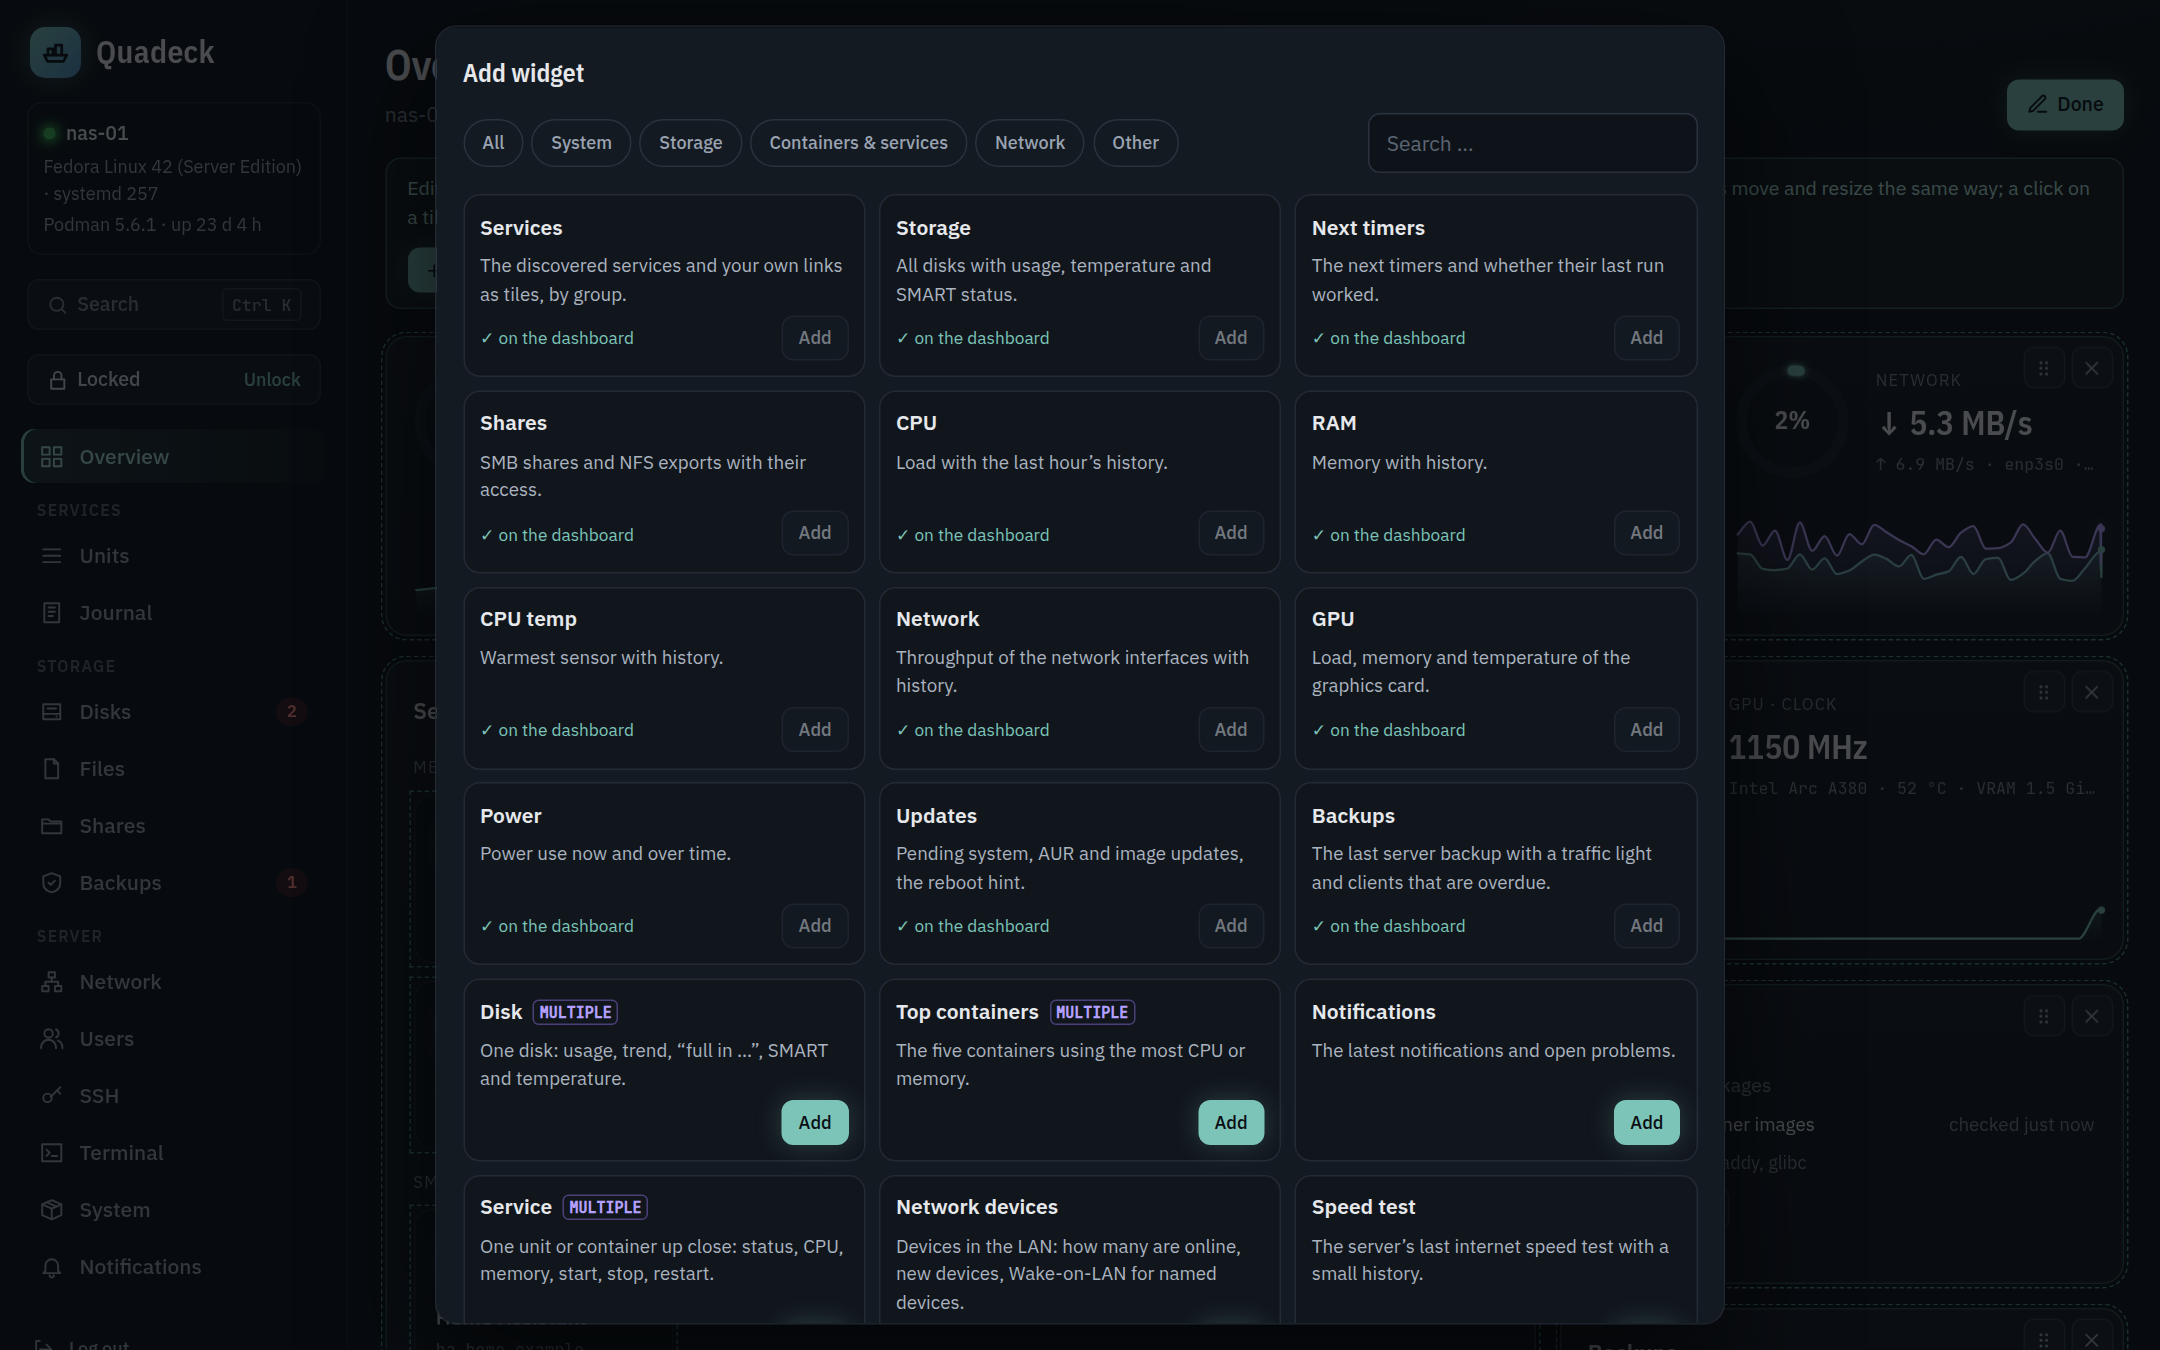
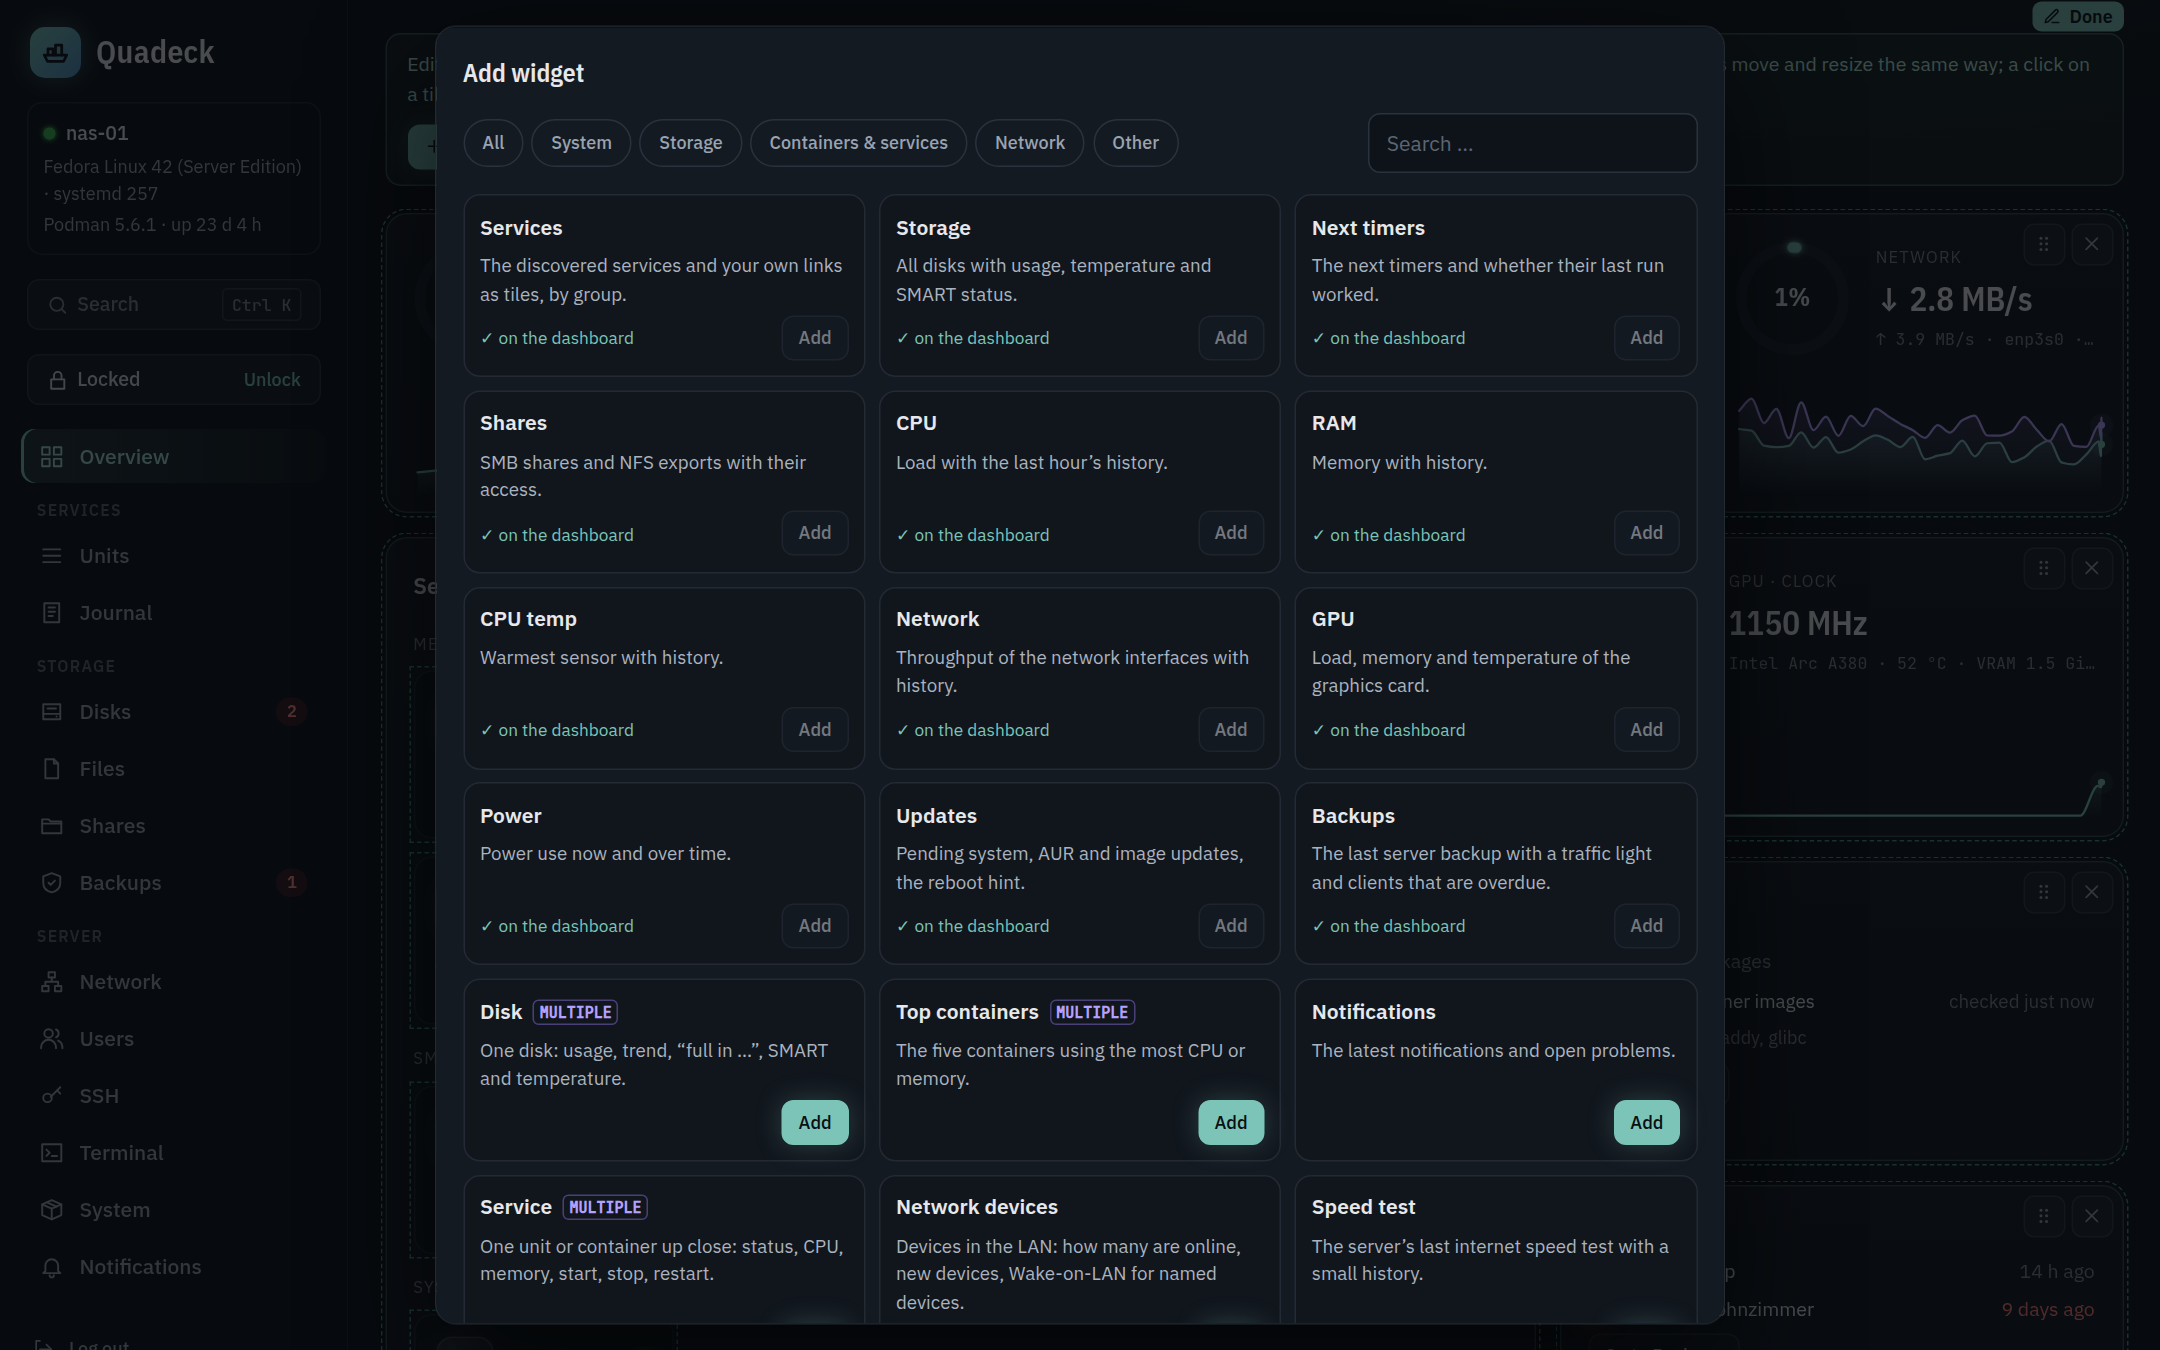
Overview: no visible title, the widgets start at the top; Edit in the corner and in the command palette
Claude-Session: https://claude.ai/code/session_01Vrgb7cjpgCXq9Tjg2bnuPN

diff --git a/src/routes/_app/index.tsx b/src/routes/_app/index.tsx
@@ -7,7 +7,6 @@ import { EditableGrid, recentlyDragged, type DefaultItem, type GridSpec } from '
 import { MetricCard, MetricDialog, type MetricCardId } from '~/components/MetricCards'
 import { Glyph } from '~/components/Glyph'
 import { ConfirmDialog } from '~/components/Modal'
-import { PageHeader } from '~/components/PageHeader'
 import { ServiceDialog } from '~/components/ServiceDialog'
 import { ServiceTile } from '~/components/ServiceTile'
 import { Dot, Pill } from '~/components/Status'
@@ -27,6 +26,8 @@ import { pickMsg } from '~/i18n'
 import { BUILTIN_CARDS, INSTANCE_KINDS, WIDGETS, defaultConfig, isBuiltinCard, type BuiltinCard, type InstanceKind, type WidgetInstance } from '~/shared/widgets'
 
 export const Route = createFileRoute('/_app/')({
+  // ?edit opens the edit mode (command palette: "Edit overview")
+  validateSearch: (s: Record<string, unknown>): { edit?: boolean } => (s.edit === true || s.edit === '1' || s.edit === 'true' ? { edit: true } : {}),
   loader: () => getDashboardLayout(),
   component: Overview,
 })
@@ -115,6 +116,13 @@ function Overview() {
   const [layout, setLayout] = useState<DashboardLayout>(initial)
   const [editing, setEditing] = useState(false)
   const say = useToast()
+  const { edit } = Route.useSearch()
+  const navigate = Route.useNavigate()
+  useEffect(() => {
+    if (!edit) return
+    setEditing(true)
+    void navigate({ search: {}, replace: true })
+  }, [edit, navigate])
   const instance = (id: string) => layout.widgets.find((w) => w.id === id)
   const cardLabel = (id: string) => {
     const w = instance(id)
@@ -263,12 +271,23 @@ function Overview() {
 
   return (
     <>
-      <PageHeader title={m.overview_title()} subtitle={m.overview_subtitle({ host: snapshot.host.hostname })}>
-        <button type="button" className={editing ? 'btn primary' : 'btn'} onClick={() => setEditing(!editing)} aria-pressed={editing} title={m.overview_edit_toggleTitle()}>
-          <Glyph name="edit" size={15} strokeWidth={2} />
+      {/* No visible title: the navigation and the host card already say where this is, the widgets
+          get the room. The strip sits in the page's top padding; the host name only on phones,
+          which have no sidebar. */}
+      <header className="-mt-[22px] -mb-[18px] flex h-[22px] items-center gap-2">
+        <h1 className="sr-only">{m.overview_title()}</h1>
+        <span className="min-w-0 grow truncate text-[12px] text-muted md:hidden">{m.overview_subtitle({ host: snapshot.host.hostname })}</span>
+        <button
+          type="button"
+          className={`ml-auto inline-flex h-[20px] items-center gap-1.5 rounded-[6px] px-2 text-[12px] ${editing ? 'bg-accent font-semibold text-bg' : 'text-muted hover:bg-[#161c24] hover:text-fg'}`}
+          onClick={() => setEditing(!editing)}
+          aria-pressed={editing}
+          title={m.overview_edit_toggleTitle()}
+        >
+          <Glyph name="edit" size={12} strokeWidth={2} />
           {editing ? m.overview_edit_done() : m.overview_edit_edit()}
         </button>
-      </PageHeader>
+      </header>
       {editing && (
         <div className="flex flex-wrap items-center gap-3 rounded-[10px] border border-[rgba(124,196,184,.35)] bg-[rgba(124,196,184,.08)] px-[14px] py-[10px] text-[13px] text-[#b6e3da]" role="status">
           <span className="grow">{m.overview_edit_help()}</span>

diff --git a/e2e/dashboard.spec.ts b/e2e/dashboard.spec.ts
@@ -34,7 +34,9 @@ test.describe.serial('Quadeck', () => {
     await page.getByRole('button', { name: 'Passwort festlegen' }).click()
     await expect(page).toHaveURL('/')
 
-    await expect(page.getByRole('heading', { name: 'Übersicht' })).toBeVisible()
+    // no visible title: the page starts with the widgets (the heading is there for screen readers)
+    await expect(page.getByRole('heading', { name: 'Übersicht', level: 1 })).toHaveCount(1)
+    await expect(page.getByText('live über Podman-Socket und D-Bus')).toBeHidden() // desktop: the sidebar has the host
     // Alarm card for the OOM-killed Quadlet
     const alarm = page.getByRole('region', { name: 'Fehlgeschlagen: immich-ml.service' })
     await expect(alarm).toContainText('OOM-Kill: Speicherlimit MemoryMax=2G erreicht')
@@ -155,7 +157,9 @@ test.describe.serial('Quadeck', () => {
     await login(page)
     const nav = page.getByRole('navigation', { name: 'Bereiche' })
     await expect(nav).toBeHidden()
-    await expect(page.getByRole('heading', { level: 1 })).toBeInViewport()
+    await expect(page.getByRole('heading', { level: 1 })).toHaveCount(1)
+    // phones have no sidebar: the host name stays in the small strip above the widgets
+    await expect(page.getByText('nas-01 · live über Podman-Socket und D-Bus')).toBeInViewport()
     await page.getByRole('button', { name: 'Menü öffnen' }).click()
     await expect(nav).toBeVisible()
     await expect(nav.getByRole('group', { name: 'Speicher' })).toContainText('Festplatten')
@@ -426,6 +430,13 @@ test.describe.serial('Quadeck', () => {
     await unlock(page)
     await expect(page.getByRole('dialog')).toContainText('systemctl restart caddy.service')
     await page.getByRole('dialog').getByRole('button', { name: 'Abbrechen' }).click()
+    // "Edit the overview" opens the edit mode
+    await page.getByRole('button', { name: /Suchen/ }).click()
+    await page.getByRole('combobox', { name: 'Suchen' }).fill('widgets')
+    await page.keyboard.press('Enter')
+    await expect(page).toHaveURL('/')
+    await expect(page.getByRole('button', { name: 'Fertig' })).toHaveAttribute('aria-pressed', 'true')
+    await page.getByRole('button', { name: 'Fertig' }).click()
   })
 
   test('units filter and journal', async ({ page }) => {

diff --git a/src/lib/palette.ts b/src/lib/palette.ts
@@ -21,6 +21,7 @@ export interface PaletteItem {
 export function paletteItems(s: Omit<Snapshot, 'system'>, readonly: boolean): PaletteItem[] {
   const items: PaletteItem[] = [
     { id: 'p:/', section: 'Seiten', label: msg(m.overview_title), keywords: 'dashboard start home übersicht overview', action: { kind: 'navigate', to: '/' } },
+    { id: 'p:/?edit', section: 'Seiten', label: msg(m.palette_page_editOverview), keywords: 'dashboard widgets layout bearbeiten edit hinzufügen add', action: { kind: 'navigate', to: '/', search: { edit: '1' } } },
     { id: 'p:/units', section: 'Seiten', label: 'Units', keywords: 'container dienste systemd quadlets services', action: { kind: 'navigate', to: '/units' } },
     { id: 'p:/units?failed', section: 'Seiten', label: msg(m.palette_page_failedUnits), keywords: 'failed fehler error', action: { kind: 'navigate', to: '/units', search: { filter: 'failed' } } },
     { id: 'p:/journal', section: 'Seiten', label: 'Journal', keywords: 'logs journalctl', action: { kind: 'navigate', to: '/journal' } },

diff --git a/docs/dashboard.md b/docs/dashboard.md
@@ -117,7 +117,9 @@ red dot means the last run of the triggered service failed. **All** opens the ti
 
 ## Layout editing
 
-The overview starts with a finished layout. **Edit** (or `E`) edits it on two levels:
+The overview starts with a finished layout. It has no title of its own (the navigation and the host
+card already say where you are), so the widgets start at the top. **Edit** in the top-right corner
+(or `E`, or *Edit the overview* in the command palette) edits it on two levels:
 
 - **Widgets** (CPU, RAM, temperature, network, GPU, power, services, storage, timers, shares and
   the ones added from the catalog): drag by the handle, resize at the bottom-right corner, remove
